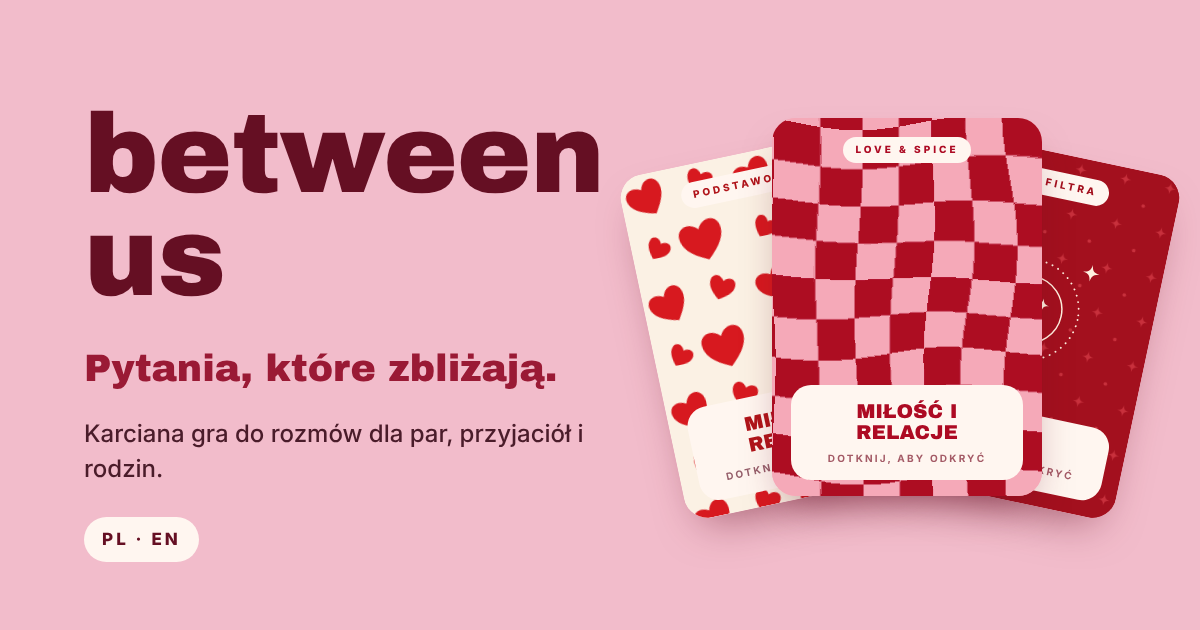
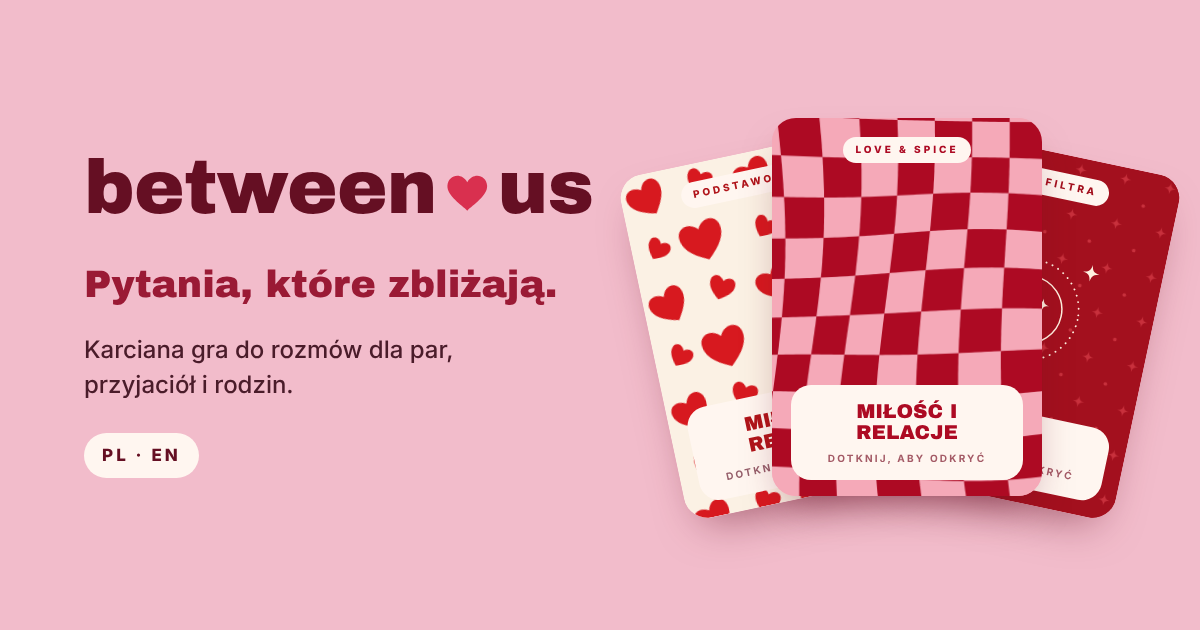
Add files via upload

diff --git a/src/components/Logo.tsx b/src/components/Logo.tsx
@@ -1,0 +1,45 @@
+import type { CSSProperties } from "react";
+import { DISPLAY_FONT } from "./CardArt";
+
+/** Brand heart. It stands literally "between" the two words of the logotype. */
+export const BRAND_HEART = "#D9304F";
+const HEART_PATH =
+  "M0 1.05C-0.3 0.75-1.15 0.2-1.12-0.35C-1.08-0.95-0.35-1.15 0-0.55C0.35-1.15 1.08-0.95 1.12-0.35C1.15 0.2 0.3 0.75 0 1.05Z";
+
+export function BrandHeart({ color = BRAND_HEART, style }: { color?: string; style?: CSSProperties }) {
+  return (
+    <svg viewBox="-1.2 -1.2 2.4 2.4" aria-hidden="true" style={style}>
+      <path d={HEART_PATH} fill={color} />
+    </svg>
+  );
+}
+
+/**
+ * The logotype: "between ♥ us". One colour for the words, the heart in the brand red.
+ * Set its size with font-size (className or style), the heart scales with it.
+ */
+export function Logo({
+  className = "",
+  style,
+  heart = BRAND_HEART,
+}: {
+  className?: string;
+  style?: CSSProperties;
+  heart?: string;
+}) {
+  return (
+    <span
+      role="img"
+      aria-label="between us"
+      className={`inline-flex items-baseline whitespace-nowrap ${className}`}
+      style={{ fontFamily: DISPLAY_FONT, ...style }}
+    >
+      <span aria-hidden="true">between</span>
+      <BrandHeart
+        color={heart}
+        style={{ width: "0.56em", height: "0.56em", margin: "0 0.12em", alignSelf: "baseline", transform: "translateY(0.01em)", flexShrink: 0 }}
+      />
+      <span aria-hidden="true">us</span>
+    </span>
+  );
+}

diff --git a/src/components/PlayingCard.tsx b/src/components/PlayingCard.tsx
@@ -5,6 +5,7 @@ import { useGame, type DrawnCard } from "@/lib/store";
 import { CATEGORY_META, EDITION_META, editionForCategory } from "@/data/questions";
 import { UNFILTERED_LEVELS } from "@/data/unfiltered";
 import { CardArt, DISPLAY_FONT, FRONT_STYLES, FrontSymbol, patternFor } from "./CardArt";
+import { Logo } from "./Logo";
 
 const FAV_RED = "#C1121F";
 
@@ -281,9 +282,7 @@ export function PlayingCard({ card }: { card: DrawnCard }) {
           </div>
 
           <div className="flex shrink-0 flex-col items-center gap-1.5" style={{ color: front.foot }}>
-            <span className="tracking-[0.04em]" style={{ fontFamily: DISPLAY_FONT, fontSize: "clamp(12px, 3.8cqw, 16px)" }}>
-              between us
-            </span>
+            <Logo heart="currentColor" style={{ fontSize: "clamp(12px, 3.8cqw, 16px)", letterSpacing: "0.04em" }} />
             <span className="font-semibold uppercase tracking-[0.2em]" style={{ fontSize: "clamp(9.5px, 2.9cqw, 13px)" }}>
               {categoryLabel} · {edition}
             </span>

diff --git a/src/components/GameScreen.tsx b/src/components/GameScreen.tsx
@@ -14,6 +14,7 @@ import { RulesSheet } from "./RulesSheet";
 import { useAuth } from "@/lib/useAuth";
 import { ConfirmDialog } from "./ConfirmDialog";
 import { DISPLAY_FONT } from "./CardArt";
+import { Logo } from "./Logo";
 
 const ROMAN = ["I", "II", "III"];
 
@@ -229,8 +230,8 @@ export function GameScreen() {
               </motion.div>
             </AnimatePresence>
           ) : (
-            <span className="flex h-12 items-center text-[18px] leading-none tracking-[-0.01em] md:h-11 md:text-[17px]" style={{ fontFamily: DISPLAY_FONT, color: "var(--ink)" }}>
-              between us
+            <span className="flex h-12 items-center text-[18px] leading-none tracking-[-0.01em] md:h-11 md:text-[17px]" style={{ color: "var(--ink)" }}>
+              <Logo />
             </span>
           )}
           {decks.unfiltered && activeTab === "play" && <LevelChip />}

diff --git a/src/routes/auth.tsx b/src/routes/auth.tsx
@@ -5,6 +5,7 @@ import { lovable } from "@/integrations/lovable";
 import { useGame } from "@/lib/store";
 import { GoogleGlyph } from "@/components/GoogleSignInButton";
 import { DISPLAY_FONT } from "@/components/CardArt";
+import { Logo } from "@/components/Logo";
 
 export const Route = createFileRoute("/auth")({
   head: () => ({ meta: [
@@ -157,8 +158,8 @@ function AuthPage() {
         </div>
 
         <div className="pb-7 pt-10">
-          <h1 className="whitespace-nowrap text-[38px] leading-none" style={{ fontFamily: DISPLAY_FONT, color: "var(--ink)" }}>
-            between us
+          <h1 className="whitespace-nowrap text-[38px] leading-none" style={{ color: "var(--ink)" }}>
+            <Logo />
           </h1>
           <p className="mt-3 text-[16px]" style={{ color: "var(--muted-text)" }}>
             {c.tagline}

diff --git a/src/components/DeckSelector.tsx b/src/components/DeckSelector.tsx
@@ -10,6 +10,7 @@ import { Settings } from "./Settings";
 import { RulesSheet } from "./RulesSheet";
 import { InstallBanner } from "./InstallApp";
 import { useAuth } from "@/lib/useAuth";
+import { Logo } from "./Logo";
 
 const t = {
   pl: {
@@ -240,8 +241,8 @@ export function DeckSelector() {
       style={{ paddingTop: "max(1rem, env(safe-area-inset-top))" }}
     >
       <header className="flex items-center justify-between px-5 pt-6 md:px-8 md:pt-0">
-        <h1 className="text-[28px] leading-none md:text-[36px]" style={{ fontFamily: DISPLAY_FONT, color: "var(--ink)" }}>
-          between us
+        <h1 className="text-[28px] leading-none md:text-[36px]" style={{ color: "var(--ink)" }}>
+          <Logo />
         </h1>
         <AccountButton onOpen={() => setSettingsOpen(true)} />
       </header>

diff --git a/public/sw.js b/public/sw.js
@@ -1,7 +1,7 @@
 // Between Us service worker: makes the app installable and lets it open without a connection.
 // Pages: network first (always the newest version), cached copy when offline.
 // Built files (/assets/…, hashed names) and icons: cache first. Fonts: cached after first use.
-const VERSION = "bu-v2";
+const VERSION = "bu-v3";
 const SHELL = ["/", "/manifest.webmanifest", "/icons/icon-192.png", "/icons/icon-512.png", "/og-image.png"];
 
 self.addEventListener("install", (event) => {

diff --git a/src/lib/shareMeta.ts b/src/lib/shareMeta.ts
@@ -1,7 +1,7 @@
 const SITE = "https://between-us-card-game.lovable.app";
 const TITLE = "Between Us — pytania, które zbliżają";
 const DESC = "Karciana gra do rozmów dla par, przyjaciół i rodzin. Po polsku i po angielsku. Questions that bring you closer.";
-const IMAGE = `${SITE}/og-image.png`;
+const IMAGE = `${SITE}/og-image.png?v=3`;
 
 /** Link preview (Messenger, WhatsApp, iMessage, Slack, X…): title, text and the 1200×630 brand image. */
 export const SHARE_META = [
